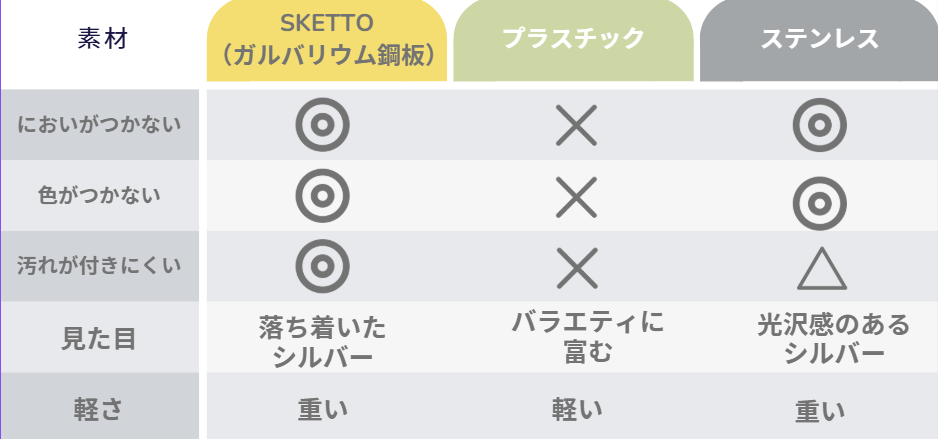
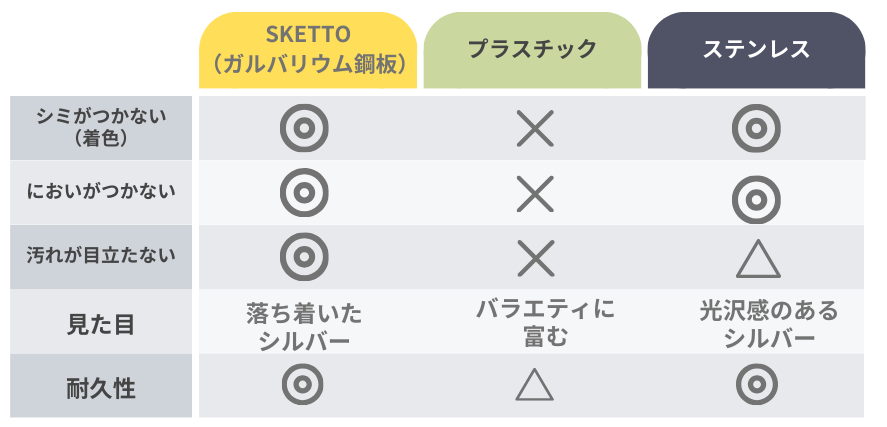
行間

diff --git a/index.html b/index.html
@@ -138,11 +138,15 @@
                 </div>
             </div>
 
-            <!-- 注釈 -->
-            <div class="odor-footnote">
-                <p class="small-text">
-                    ※匂いの素＝生ゴミの成分の分解物です。<br>酸素が少ない状況下になると嫌気性微生物（バクテリア）によ発酵（腐敗）が進み、生ゴミの成分が分解され、匂いの素となる有機酸や硫化水素が生じます。</p>
-                <p class="author-text">嫌気性微生物研究者　国立高等専門学校教授より</p>
+            <!-- 画像と重なる注釈エリア -->
+            <div class="odor-image-footnote">
+                <img src="./images/matigaedarake.png" alt="間違えだらけの生ごみ対策" class="matigaedarake-image">
+                <div class="footnote-overlay">
+                    <p class="footnote-text">
+                        においの素＝生ゴミの成分の分解物です。<br>酸素が少ない状況下になると嫌気性微生物（バクテリア）<br>による発酵（腐敗）が進み、生ゴミの成分が分解され<br>においの素となる有機酸や硫化水素が生じます。
+                    </p>
+                    <p class="footnote-author">嫌気性微生物研究者　国立高等専門学校教授より</p>
+                </div>
             </div>
         </div>
     </section>
@@ -160,13 +164,15 @@
 
                 <!-- 右：説明テキスト -->
                 <div class="sketto-features">
-                    <p class="feature-text">SKETTOはフタをしていても生ゴミが新鮮な空気に触れ<br>水分の蒸発も起こります</p>
+                    <p class="feature-text">SKETTOは水分の蒸発が起こり</p>
 
-                    <p class="feature-text">庫内も換気が自然に起きるよう設計、熱がこもりません</p>
+                    <p class="feature-text">庫内に自然換気が発生するため、熱がこもりません</p>
 
-                    <p class="feature-text">さらに金属の熱伝導率により温度が下がり<br>嫌気性微生物の活性化を防ぎます</p>
+                    <p class="feature-text">さらに熱伝導率が高さから、庫内の温度が下がります</p>
 
-                    <p class="feature-highlight">生ゴミを腐らせないため、コバエの発生も防げます</p>
+                    <p class="feature-text">生ゴミを腐らせないため、コバエの発生も防げます</p>
+
+                    <p class="feature-highlight">もちろん、ニオイも吸着しません</p>
                 </div>
             </div>
         </div>
@@ -201,6 +207,12 @@
         <div class="container">
             <h2 class="section-title text-center">SKETTOは「強くて、ラクな素材」</h2>
 
+            <!-- 比較表画像 -->
+            <div class="comparison-image-wrapper">
+                <img src="./images/hyou.png" alt="素材比較表" class="comparison-image">
+            </div>
+
+            <!--
             <div class="comparison-table-wrapper">
                 <table class="comparison-table">
                     <thead>
@@ -245,6 +257,7 @@
                     </tbody>
                 </table>
             </div>
+            -->
         </div>
     </section>
 
@@ -254,17 +267,14 @@
             <h2 class="section-title text-center">一生モノを新潟から。</h2>
 
             <div class="niigata-layout">
-                <!-- 左：職人画像とロゴ -->
+                <!-- 左：職人画像 -->
                 <div class="niigata-image-area">
-                    <img src="./images/niigata.png" alt="足立製作所の職人" class="craftsman-image">
-                    <div class="factory-info">
-                        <p class="factory-name">株式会社　足立製作所</p>
-                    </div>
+                    <img src="./images/niigata.png" alt="足立製作所の職人" class="niigata-full-image">
                 </div>
 
                 <!-- 右：説明テキスト -->
                 <div class="niigata-content">
-                    <p class="niigata-text">SKETTOは、燕三条のおとなり 新潟市で<br>細かなところまで丁寧に作り上げています。</p>
+                    <p class="niigata-text">SKETTOは、燕三条のおとなりにある足立製作所で<br>細かなところまで丁寧に作り上げています</p>
 
                     <p class="niigata-highlight">いわば、「ザ、日本の職人仕事」</p>
 
@@ -289,14 +299,11 @@
 
                 <!-- 右：説明テキスト -->
                 <div class="designer-content">
-                    <p class="designer-text">デザインは元無印良品を手がけていらした<br><span class="designer-name-inline">關博旨さん</span>が担当
-                    </p>
+                    <p class="designer-text">デザインは元無印良品を手がけていらした<br>關博旨さんが担当</p>
 
                     <p class="designer-text">どんなキッチンにも自然になじみ<br>空間にとけこむ美しさを目指しました</p>
 
                     <p class="designer-text">どんなサイズのゴミ袋でも使いやすいよう<br>細かいところまで研究を重ねています</p>
-
-                    <p class="designer-text">当たり前に思っていた、家事の負担の軽減を<br>SKETTOで感じてください</p>
                 </div>
             </div>
         </div>
@@ -525,13 +532,10 @@
                 <!-- Voice 1 -->
                 <div class="voice-item">
                     <div class="voice-image">
-                        <img src="./images/koe1.png" alt="40代女性の人物画像">
+                        <img src="./images/monitor1.png" alt="40代女性の人物画像">
                     </div>
                     <div class="voice-content">
-                        <p class="voice-author voice-author-left">モニターAさん<br>
-                            清潔感があってうれしい<br>
-                            <span class="star-rating">★★★★★</span><br>
-                            40代 女性<br>
+                        <p class="voice-author voice-author-left">
                             顔をつっこんでも全く臭わないから感動しちゃう。<br>
                             ステンレスが希望だったけど、汚れが目立たないし、さらっとしてるので使ってみて分かる良さでした。<br>
                             意外に白いキッチンに合って上品で気に入っています。
@@ -542,24 +546,23 @@
                 <!-- Voice 2 -->
                 <div class="voice-item">
                     <div class="voice-image">
-                        <img src="./images/koe2.png" alt="30代女性の人物画像">
+                        <img src="./images/monitor2.png" alt="30代女性の人物画像">
                     </div>
                     <div class="voice-content">
-                        <p class="voice-author voice-author-left">モニターBさん<br>とっても気持ちがいい<br><span
-                                class="star-rating">★★★★★</span><br>30代
-                            女性<br>スライド式のフタがスーッと開いて、とっても気持ちがいい。ニオイも汚れも気にしなくていいって、こんなに楽なんだと感動。地味にフタをひっかけられるのが便利。</p>
+                        <p class="voice-author voice-author-left">
+                            スライド式のフタがスーッと開いて、とっても気持ちがいい。ニオイも汚れも気にしなくていいって、こんなに楽なんだと感動。地味にフタをひっかけられるのが便利。
+                        </p>
                     </div>
                 </div>
 
                 <!-- Voice 3 (Originally 4) -->
                 <div class="voice-item">
                     <div class="voice-image">
-                        <img src="./images/koe3.png" alt="30代男性の人物画像">
+                        <img src="./images/monitor3.png" alt="30代男性の人物画像">
                     </div>
                     <div class="voice-content">
-                        <p class="voice-author voice-author-left">モニターCさん<br>見て気持ちよいゴミ箱<br><span
-                                class="star-rating">★★★★★</span><br>30代
-                            男性<br>見て気持ちよいゴミ箱って初めてかも。我が家は生ゴミはあまり出なくて、お弁当のプラがよくでるから、大きく開く45ℓがぴったりでした。プラゴミのニオイも気にならなくてうれしい。
+                        <p class="voice-author voice-author-left">
+                            見て気持ちよいゴミ箱って初めてかも。我が家は生ゴミはあまり出なくて、お弁当のプラがよくでるから、大きく開く45ℓがぴったりでした。プラゴミのニオイも気にならなくてうれしい。
                         </p>
                     </div>
                 </div>
@@ -567,12 +570,11 @@
                 <!-- Voice 4 -->
                 <div class="voice-item">
                     <div class="voice-image">
-                        <img src="./images/koe4.png" alt="40代女性の人物画像">
+                        <img src="./images/monitor4.png" alt="40代女性の人物画像">
                     </div>
                     <div class="voice-content">
-                        <p class="voice-author voice-author-left">モニターDさん<br>ビニールがかけやすい<br><span
-                                class="star-rating">★★★★★</span><br>40代
-                            女性<br>におわないのはすごいし、引き戸は想像以上に使い勝手よくて。フックが考えられていて、ビニールが浮いてきてしまうこともない。磁石もついているから、お米の袋やトイレットペーパーのビニールもちょっと挟んで使っちゃってる。リユースできてエコ。（そんな使い方は私だけかな）
+                        <p class="voice-author voice-author-left">
+                            におわないのはすごいし、引き戸は想像以上に使い勝手よくて。フックが考えられていて、ビニールが浮いてきてしまうこともない。磁石もついているから、お米の袋やトイレットペーパーのビニールもちょっと挟んで使っちゃってる。リユースできてエコ。（そんな使い方は私だけかな）
                         </p>
                     </div>
                 </div>

diff --git a/style.css b/style.css
@@ -754,6 +754,43 @@ p {
     margin-bottom: 0;
 }
 
+/* 画像と重なる注釈エリア */
+.odor-image-footnote {
+    position: relative;
+    margin-top: 50px;
+}
+
+.matigaedarake-image {
+    width: 100%;
+    height: auto;
+    display: block;
+}
+
+.footnote-overlay {
+    position: absolute;
+    bottom: 8%;
+    left: 3%;
+    max-width: 60%;
+    padding: 25px 30px;
+    background: rgba(255, 255, 255, 0.95);
+    border-radius: 12px;
+}
+
+.footnote-text {
+    font-size: 1.15rem;
+    line-height: 1.9;
+    color: #4A4A4A;
+    margin-bottom: 1em;
+}
+
+.footnote-author {
+    font-size: 1rem;
+    color: #555;
+    text-align: center;
+    margin: 0;
+    font-weight: 500;
+}
+
 /* モバイル対応 */
 @media (max-width: 767px) {
     .odor-cause-layout {
@@ -876,13 +913,26 @@ p {
     margin: 0 auto;
 }
 
-.niigata-image-area {
-    position: relative;
-    max-width: 320px;
+/* 画像だけを表示するスタイル */
+.niigata-image-only {
+    text-align: center;
+    max-width: 100%;
+    margin: 0 auto;
 }
 
-.craftsman-image {
-    width: 100%;
+.niigata-full-image {
+    max-width: 100%;
+    height: auto;
+}
+
+.niigata-image-area {
+    display: flex;
+    justify-content: center;
+    align-items: center;
+}
+
+.niigata-full-image {
+    max-width: 100%;
     height: auto;
     border-radius: 4px;
 }
@@ -918,21 +968,25 @@ p {
 
 .niigata-content {
     padding-left: 20px;
+    display: flex;
+    flex-direction: column;
+    justify-content: center;
 }
 
 .niigata-text {
-    font-size: 1rem;
-    line-height: 1.8;
+    font-size: 1.15rem;
+    line-height: 1.9;
     color: #4A4A4A;
-    margin-bottom: 1.5em;
+    margin-bottom: 0.8em;
 }
 
 .niigata-highlight {
-    font-size: 1.1rem;
-    font-weight: 700;
+    font-size: 1.25rem;
+    font-weight: 400;
     line-height: 1.8;
     color: #4A4A4A;
-    margin-bottom: 1.5em;
+    margin-bottom: 0.8em;
+    white-space: nowrap;
 }
 
 @media (max-width: 767px) {
@@ -1030,13 +1084,17 @@ p {
 
 .designer-content {
     padding-top: 20px;
+    display: flex;
+    flex-direction: column;
+    justify-content: center;
 }
 
 .designer-text {
-    font-size: 1rem;
-    line-height: 1.8;
+    font-size: 1.15rem;
+    line-height: 1.6;
+    font-weight: 400;
     color: #4A4A4A;
-    margin-bottom: 1.8em;
+    margin-bottom: 1em;
 }
 
 .designer-name-inline {
@@ -1479,6 +1537,16 @@ p {
     letter-spacing: 0.08em;
 }
 
+.comparison-image-wrapper {
+    text-align: center;
+    margin: 0 auto;
+}
+
+.comparison-image {
+    max-width: 100%;
+    height: auto;
+}
+
 .comparison-table-wrapper {
     overflow-x: auto;
     max-width: 900px;
@@ -1829,9 +1897,10 @@ p {
 
 .voice-author {
     text-align: right;
-    font-weight: 700;
-    color: #888;
-    font-size: 0.9rem;
+    font-weight: 400;
+    color: #5A5A5A;
+    font-size: 1.2rem;
+    line-height: 1.8;
 }
 
 .voice-author-left {
